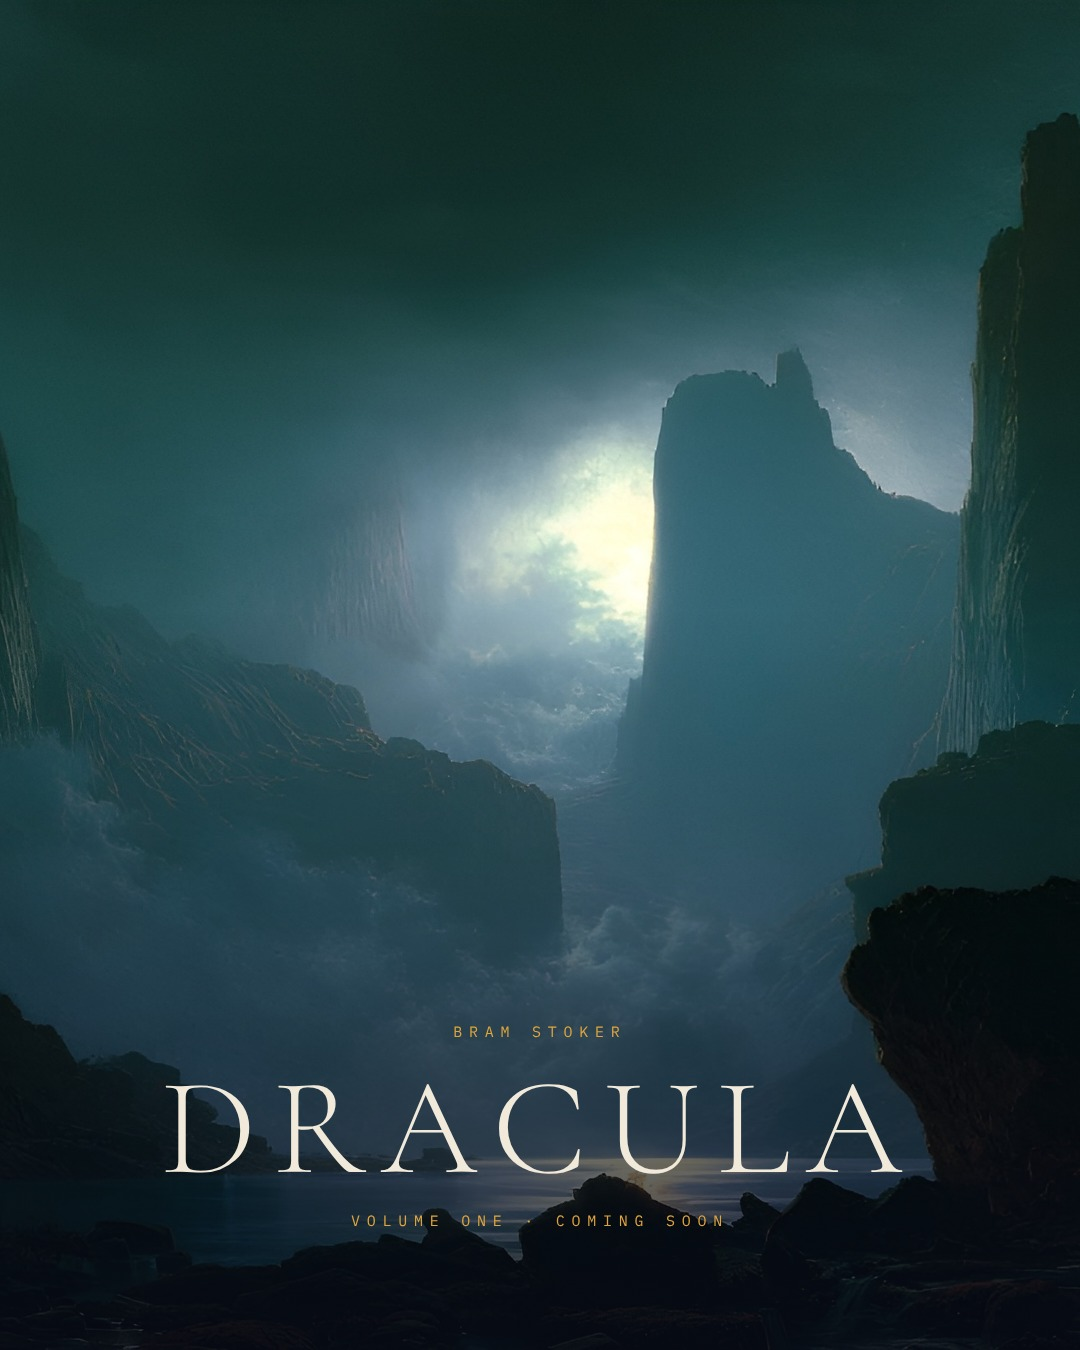
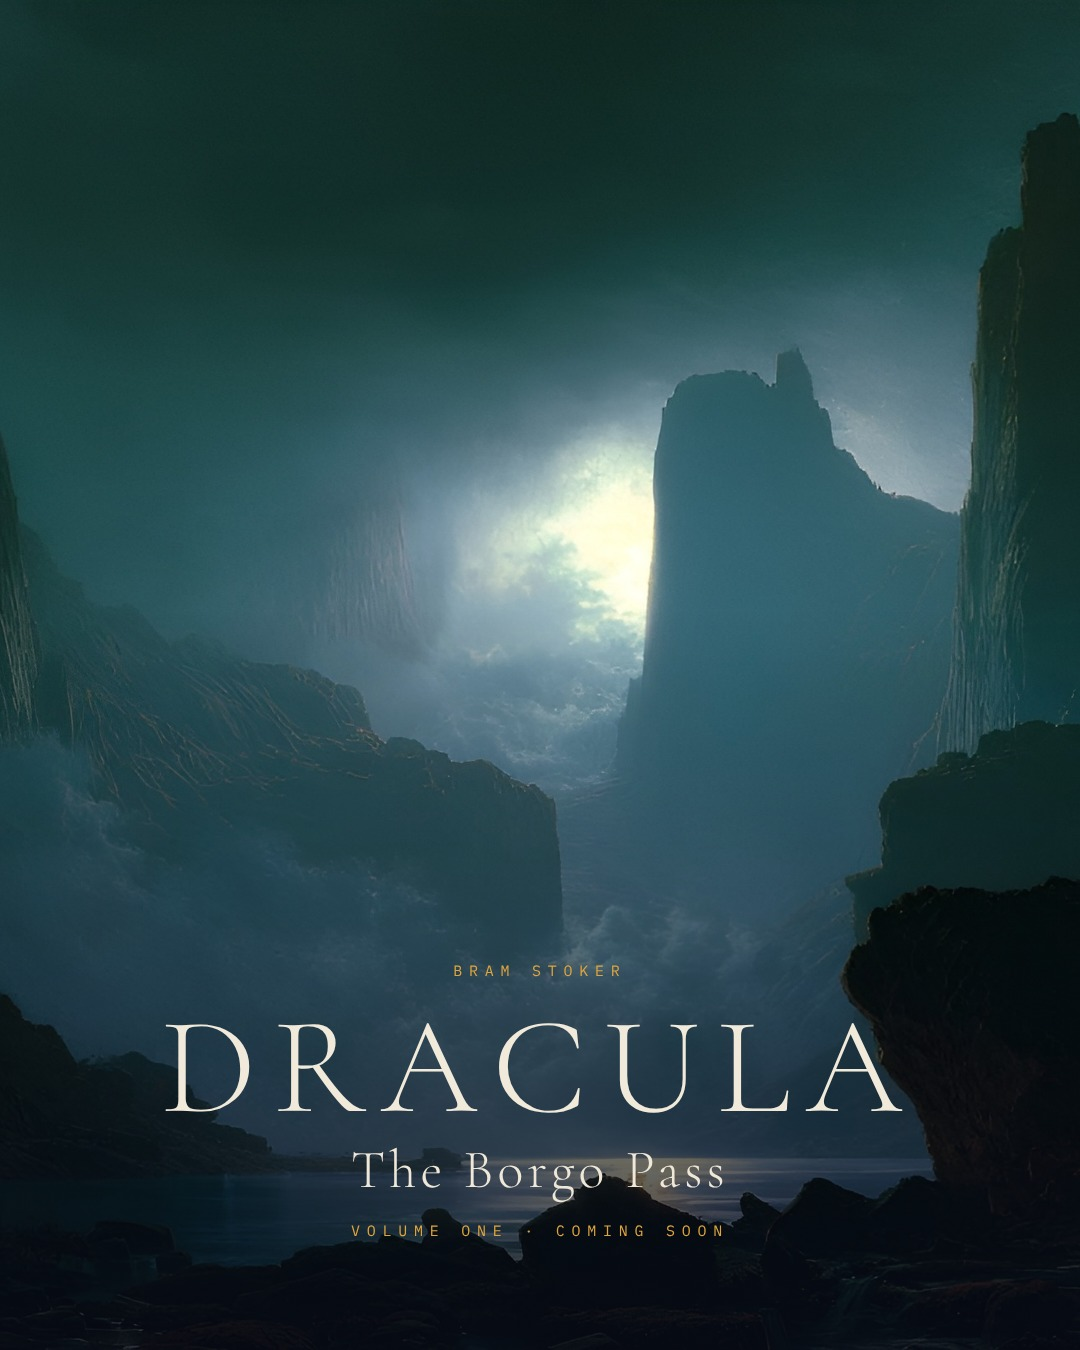
Instagram post 11: Dracula, The Borgo Pass
Claude-Session: https://claude.ai/code/session_013VwDP7mPLrP4eYudhxc4u4

Changed region(s): [[0.1528, 0.7467, 0.6722, 0.9333], [0.6722, 0.7467, 0.825, 0.8711]]

diff --git a/marketing/instagram/launch/page.py b/marketing/instagram/launch/page.py
@@ -11,7 +11,7 @@ P=[
 ("08","The Czarina Catherine","ch. XXIV","Hunted out of London, the Count takes ship for the Black Sea and home, and the hunters follow.\n\nDracula, chapter XXIV.","#Dracula #BramStoker #MaritimeArt #AmentiStudios"),
 ("09","Lucy","ch. XVI","Hampstead churchyard. The woman they buried a week ago is walking among the tombs.\n\n“Come to me, Arthur. Leave these others and come to me. My arms are hungry for you.”\n— Lucy Westenra, Dracula, chapter XVI","#Dracula #BramStoker #LucyWestenra #GothicArt #AmentiStudios"),
 ("10","The Un-Dead","ch. XV–XVI","The children of Hampstead come home late and tell of a beautiful lady in white who walks with them at night. Van Helsing knows what she is, and Arthur must see it for himself. Lucy Westenra is Un-Dead.\n\nDracula, chapters XV–XVI.","#Dracula #BramStoker #LucyWestenra #AmentiStudios"),
-("11","Dracula · Volume One","Coming soon","The Borgo Pass, where the road east runs out and the Count’s calèche is waiting.\n\nDracula · Volume One. Books I and II of Bram Stoker’s novel, chapters I–XVI, illustrated throughout, in hardcover. Every chapter links to its scored reading.\n\nComing soon from Amenti Studios.","#Dracula #BramStoker #IllustratedBooks #AmentiStudios"),
+("11","Dracula: The Borgo Pass","Coming soon","The Borgo Pass, where the road east runs out and the Count’s calèche is waiting.\n\nDracula · Volume One. Books I and II of Bram Stoker’s novel, chapters I–XVI, illustrated throughout, in hardcover. Every chapter links to its scored reading.\n\nComing soon from Amenti Studios.","#Dracula #BramStoker #IllustratedBooks #AmentiStudios"),
 ("12","Piccadilly","ch. XIII","London, broad daylight. Mina feels Jonathan’s arm grip hers. He is staring at a tall, thin man by a carriage.\n\n“I believe it is the Count, but he has grown young.”\n— Jonathan Harker, Dracula, chapter XIII","#Dracula #BramStoker #VictorianLondon #AmentiStudios"),
 ]
 def enc(im,q):
